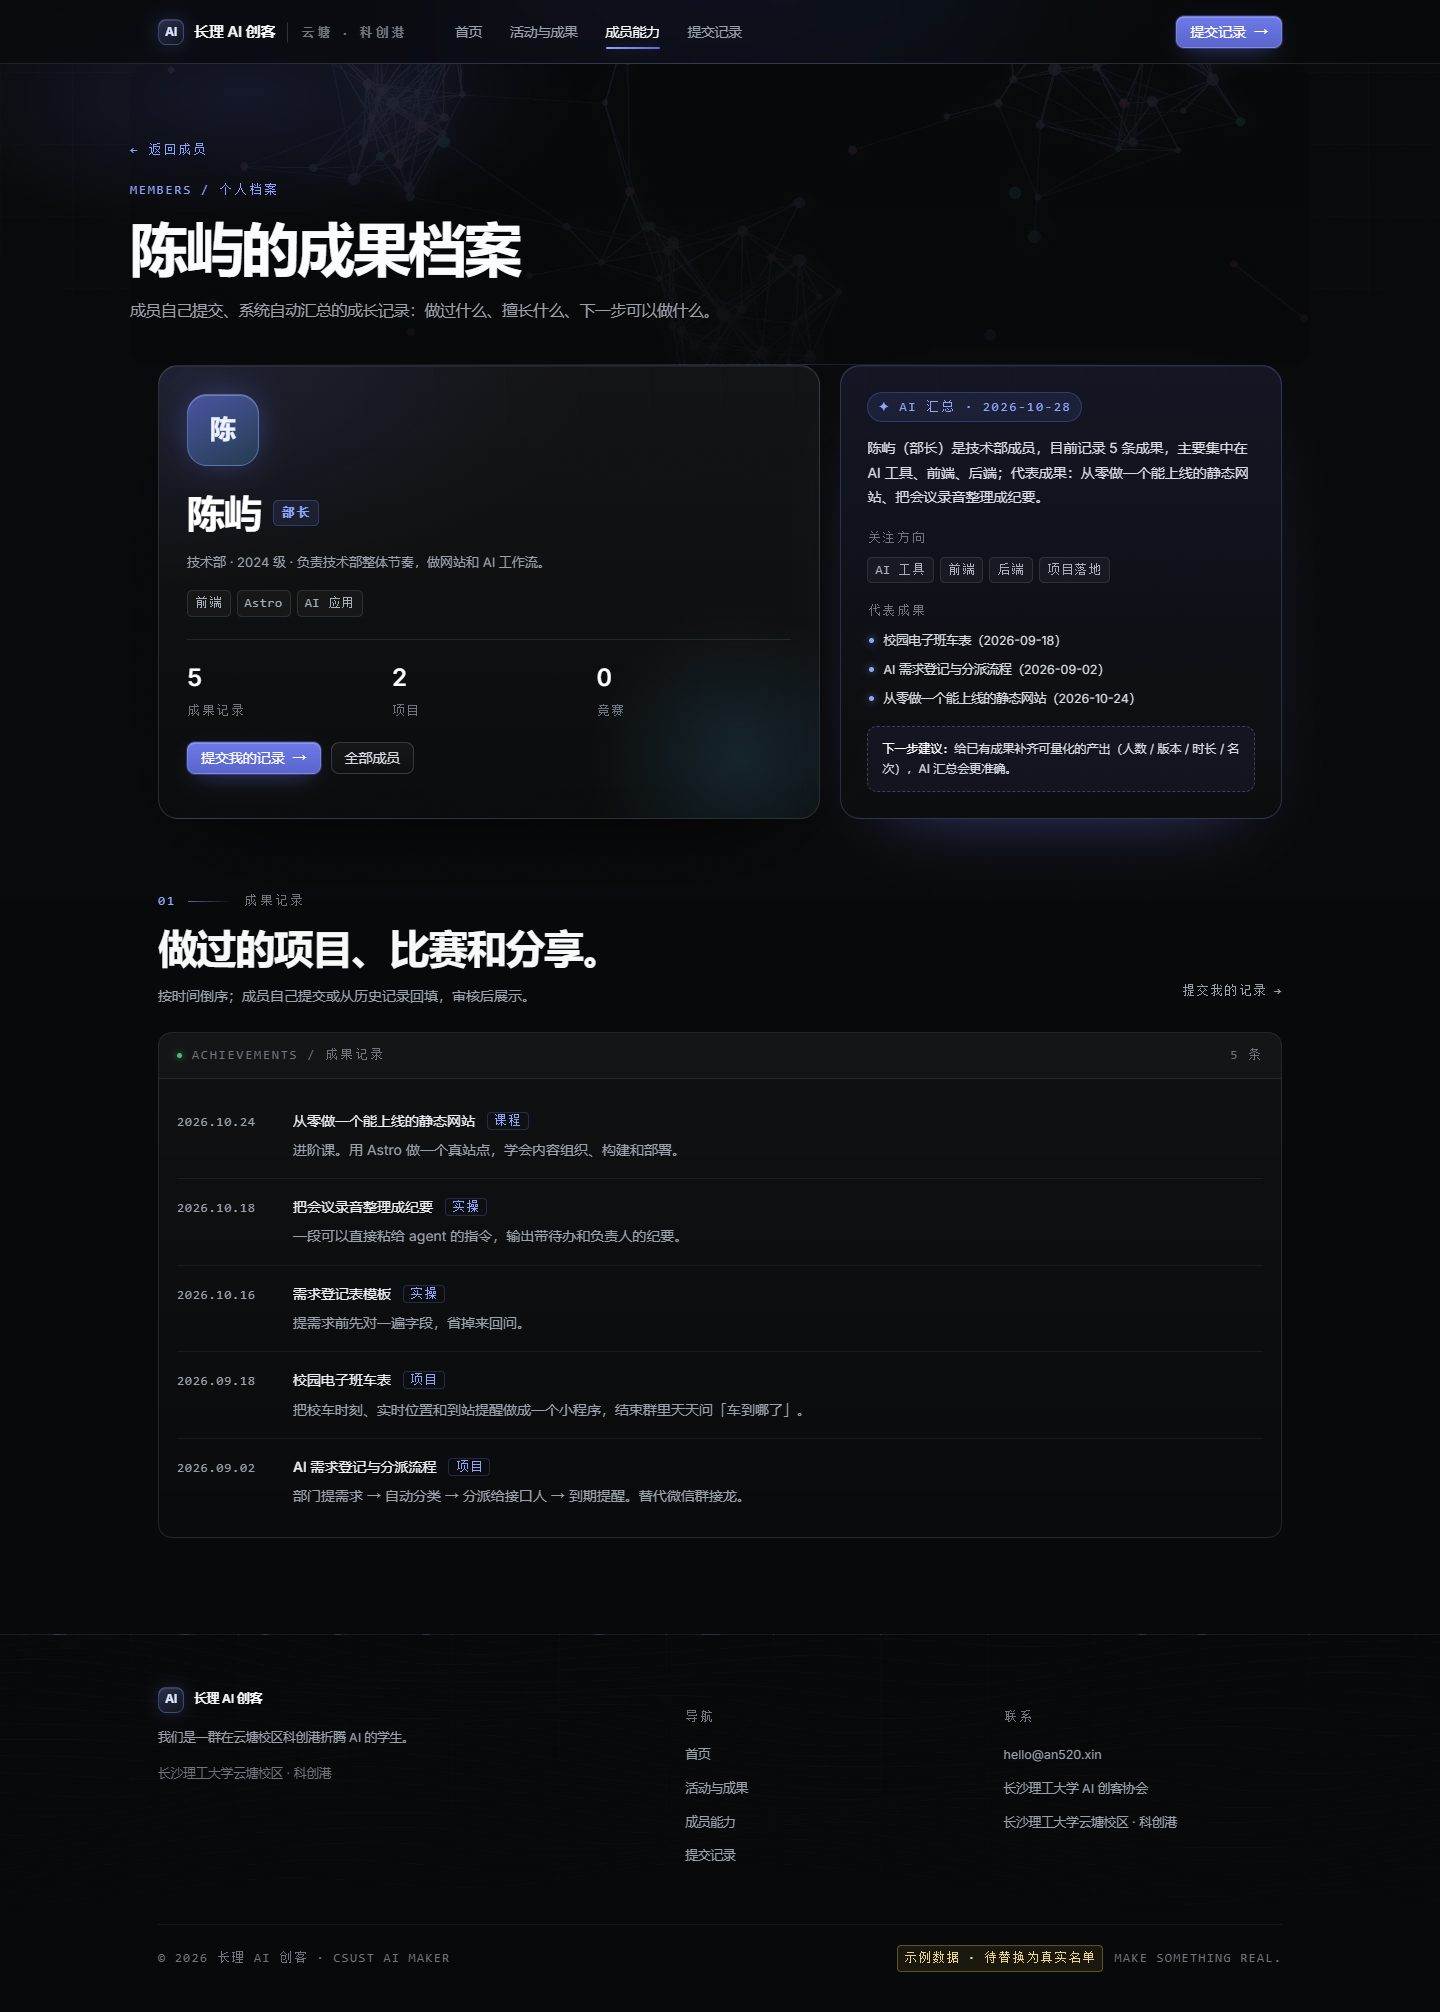
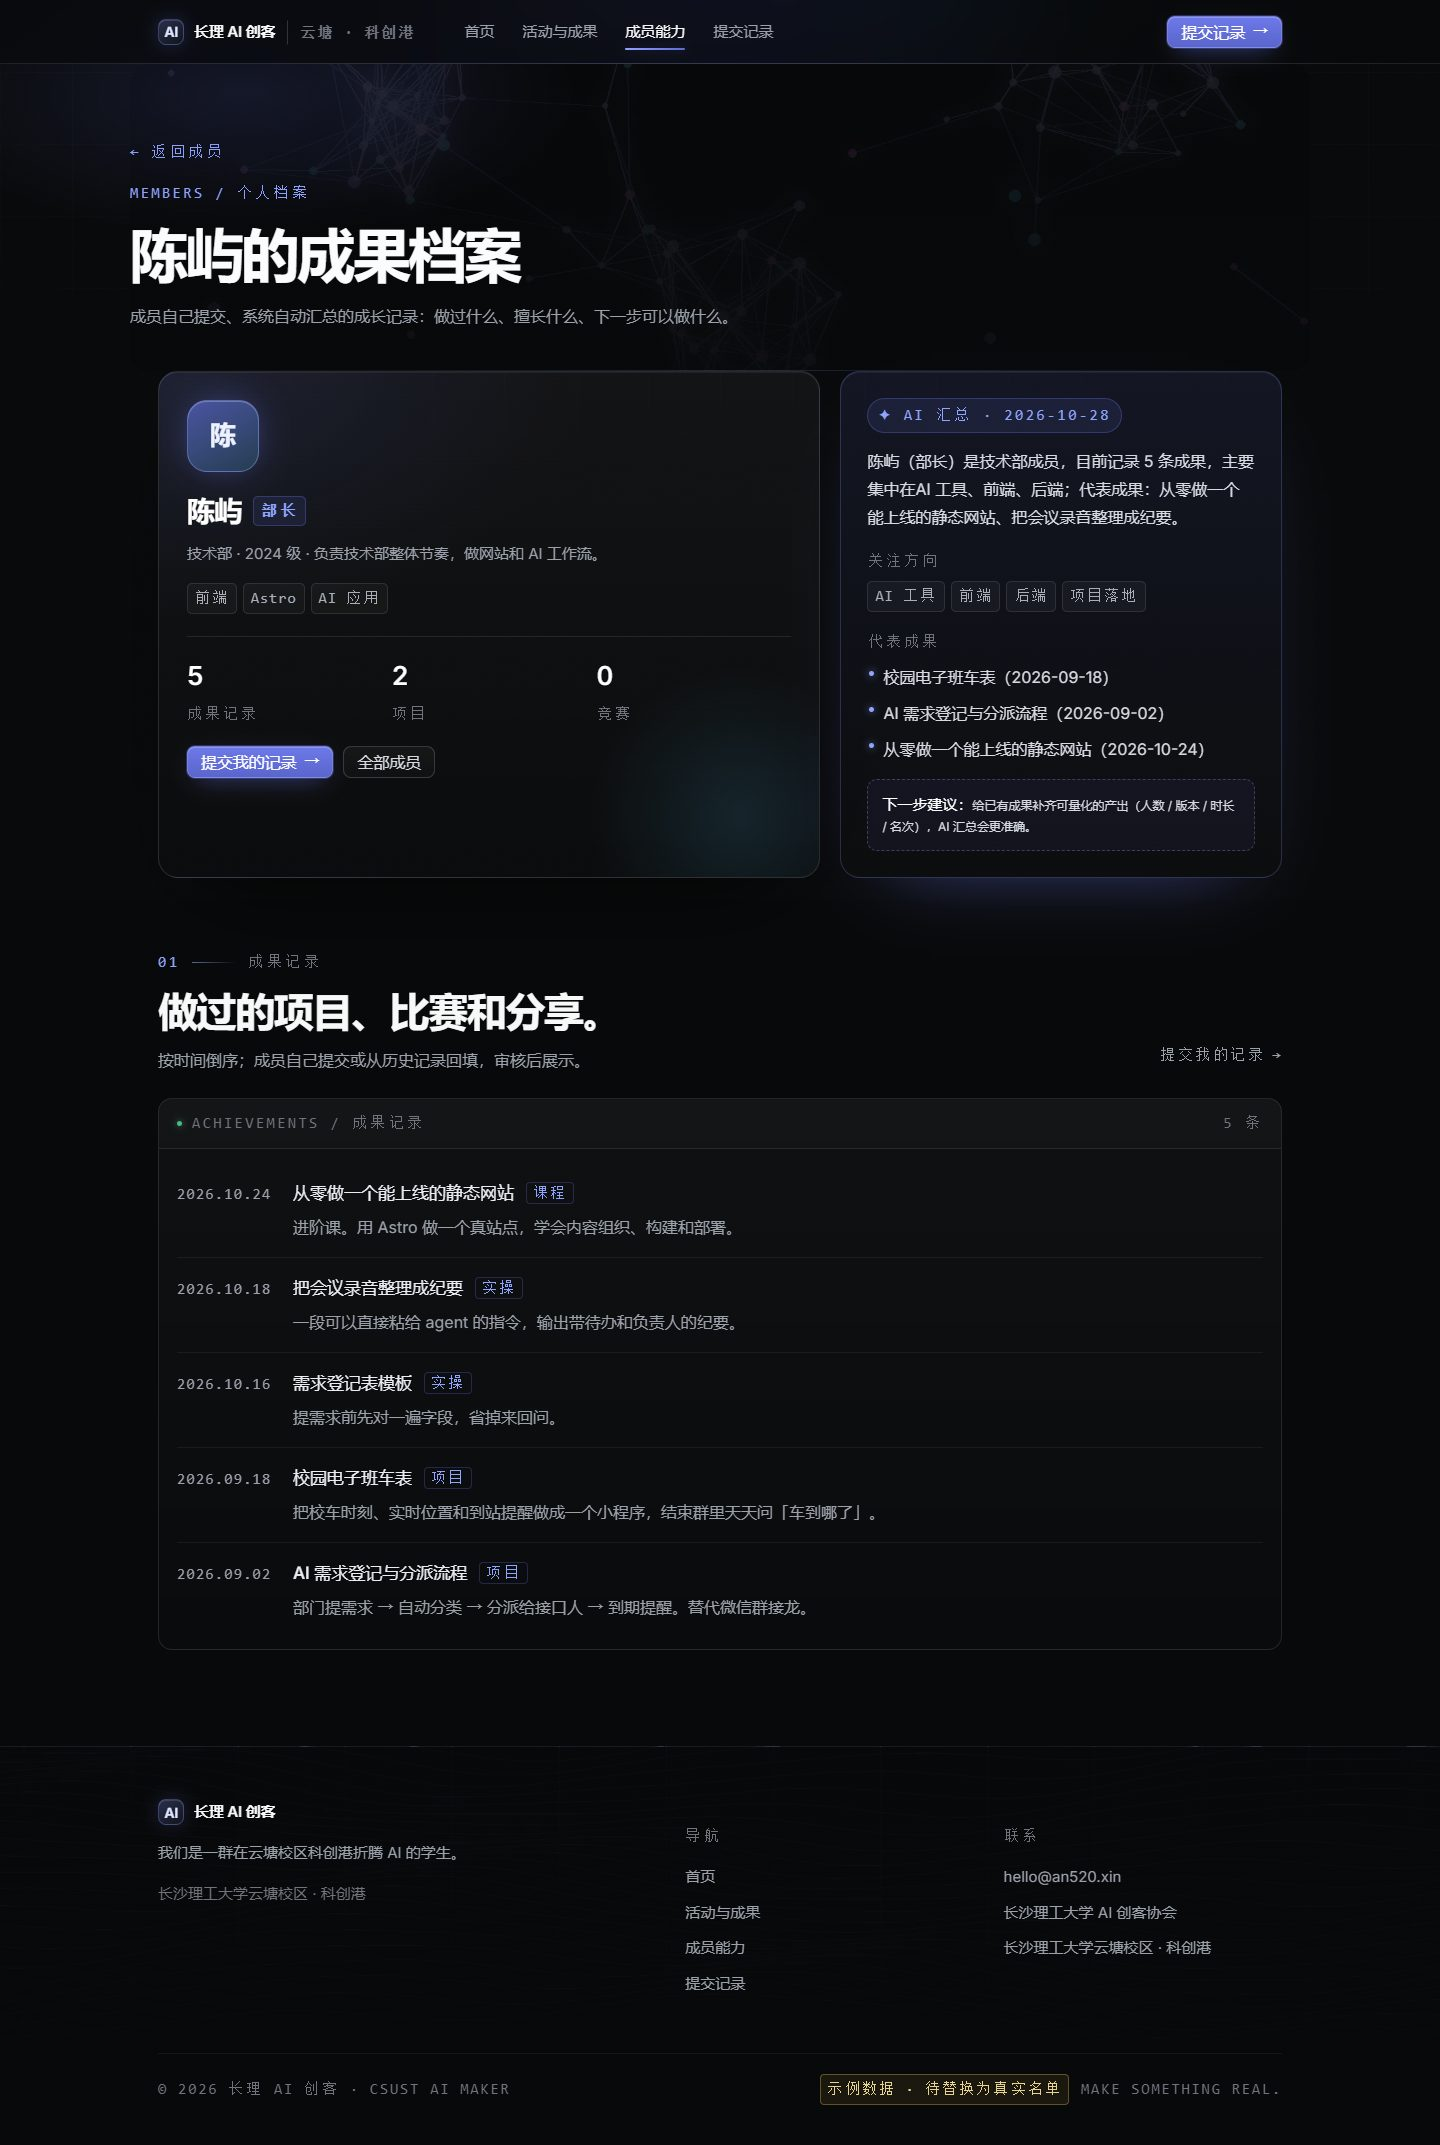
design: 字体整体放大（最小五号 14px）+ AI 装饰应用到更多区块
- 字号体系：正文 16px、描述 16px、标签/元信息 15px，最小不低于 14px；关于协会标签 15px / 值 17px；导航页脚 15px
- 审计：首页/活动与成果/成员/个人档案/提交页均无小于 14px 的文字
- AI 装饰扩展：关于协会区（轨道 + 波纹）、成员能力区（神经网络）、成员页头与档案区、活动成果页、投稿页表单（轨道）、页脚（波纹）
- 截图更新；AGENTS/文档同步新字号规范与装饰位置
- 测试 50、构建 19 页、烟雾通过；桌面/移动无横向溢出

diff --git a/src/styles/global.css b/src/styles/global.css
@@ -3371,3 +3371,220 @@ input, select, textarea, button { font-size: 15px; }
   .ach-stats { grid-template-columns: repeat(2, minmax(0, 1fr)) !important; }
   .ach-stat:nth-child(3) { grid-column: 1 / -1; border-left: 0; border-top: 1px solid var(--line); }
 }
+
+/* ============================================================
+   2026-10-28 v2：字体整体放大（最小五号 ≈14px）+ AI 装饰应用到区块
+   ============================================================ */
+
+/* ---------- 字号基准 ---------- */
+html { font-size: 16px; }
+body { font-size: 16px; }
+p, li, dd, dt { font-size: 15px !important; }
+a { font-size: inherit; }
+.tlinks a { font-size: 15px; }
+.btn, .btn-sm { font-size: 15px; }
+input, select, textarea, button, option { font-size: 15px !important; }
+.skip-link { font-size: 14px; }
+
+/* 描述层：15px */
+.sec-desc, .lead, .ach-desc, .activity-body p, .dept-duty, .archive-summary,
+.ai-summary, .tl-desc, .about-fact b, .about-fact a, .form-msg, .compliance p,
+.foot-lead, .archive-card .archive-summary, .ai-list li, .views-empty {
+  font-size: 15px !important;
+  line-height: 1.75;
+}
+
+/* 标签 / 元信息：统一 14px（五号） */
+.mono, .crumb, .sec-index, .sec-index b, .tag, .skill-chip, .ach-type, .ach-date,
+.ach-avatar, .ach-link, .ach-member a, .activity-kind, .activity-meta,
+.hero-photo-badge, .hero-photo-count, .data-badge, .foot-meta, .brand-sub,
+.brand-mark, .stat-k, .stat-label, .count, .hbar-label, .hbar-num, .archive-meta,
+.archive-stats span, .archive-stats b, .mech-k, .profile-role, .profile-meta,
+.tl-date, .tl-type, .tl-outcome, .tl-link, .ai-tag, .ai-sub, .ai-next b,
+.m-role, figcaption, .panel-head, .member-table th, .search-box input, .chip,
+.carousel-slide figcaption, .mini-type, .mini-date, .member-simple-dept,
+.sec-more, .tfoot h5, .tfoot a, .tfoot p, .field label, .field .hint, .hint,
+.compliance span, .ability-person span, .profile-stat span, .ar, .list-head,
+.list-head span, .tfoot-bottom, .tfoot-bottom span, .carousel-dots button,
+.ability-row .hbar-label, .dept-tags .tag, .archive-tags .tag {
+  font-size: 14px !important;
+}
+
+/* 卡片标题 / 正文标题略微放大 */
+.ach-title { font-size: 17px !important; }
+.activity-body b { font-size: 16px !important; }
+.mini-row b { font-size: 16px !important; }
+.member-simple-head b { font-size: 16px !important; }
+.archive-name { font-size: 16px !important; }
+.about-fact b, .about-fact a { font-size: 16px !important; }
+.about-fact .mono { font-size: 14px !important; }
+.field label { font-size: 14px !important; }
+.profile-name { font-size: 26px; }
+.profile-stat b { font-size: 24px; }
+.ability-panel h3 { font-size: 16px; }
+.dept-name { font-size: 16px; }
+.tl-body b { font-size: 16px; }
+
+/* 关于协会：标签（所在位置等）与值都放大，少一点小字 */
+.about-facts { gap: 14px; }
+.about-fact { padding: 20px 22px; gap: 8px; }
+
+/* ---------- AI 装饰应用到更多区块 ---------- */
+#about { position: relative; overflow: hidden; }
+#about::before {
+  content: "";
+  position: absolute;
+  right: -240px;
+  top: -160px;
+  width: 720px;
+  height: 720px;
+  background: url('/decor/orbit.webp') center / contain no-repeat;
+  opacity: 0.3;
+  mix-blend-mode: screen;
+  pointer-events: none;
+  z-index: 0;
+}
+#about::after {
+  content: "";
+  position: absolute;
+  left: 0;
+  right: 0;
+  bottom: 0;
+  height: 220px;
+  background: url('/decor/mesh.webp') center bottom / cover no-repeat;
+  opacity: 0.32;
+  mix-blend-mode: screen;
+  pointer-events: none;
+  mask-image: linear-gradient(180deg, transparent, #000 60%, transparent);
+  -webkit-mask-image: linear-gradient(180deg, transparent, #000 60%, transparent);
+}
+#about > .wrap { position: relative; z-index: 1; }
+
+#members { position: relative; overflow: hidden; }
+#members::before {
+  content: "";
+  position: absolute;
+  right: -120px;
+  top: 40px;
+  width: 520px;
+  height: 420px;
+  background: url('/decor/neural.webp') center / contain no-repeat;
+  opacity: 0.22;
+  mix-blend-mode: screen;
+  pointer-events: none;
+  z-index: 0;
+}
+#members > .wrap { position: relative; z-index: 1; }
+
+#results, #roster, #ability, #structure { position: relative; overflow: hidden; }
+#results::before,
+#roster::before {
+  content: "";
+  position: absolute;
+  right: -180px;
+  top: -60px;
+  width: 560px;
+  height: 560px;
+  background: url('/decor/orbit.webp') center / contain no-repeat;
+  opacity: 0.22;
+  mix-blend-mode: screen;
+  pointer-events: none;
+  z-index: 0;
+}
+#ability::before {
+  content: "";
+  position: absolute;
+  left: -140px;
+  top: -80px;
+  width: 480px;
+  height: 380px;
+  background: url('/decor/neural.webp') center / contain no-repeat;
+  opacity: 0.2;
+  mix-blend-mode: screen;
+  pointer-events: none;
+  z-index: 0;
+}
+#results > .wrap, #roster > .wrap, #ability > .wrap, #structure > .wrap {
+  position: relative;
+  z-index: 1;
+}
+
+/* 投稿页：表单卡右侧轨道装饰 */
+.form-shell { position: relative; }
+.form-shell::before {
+  content: "";
+  position: absolute;
+  right: -200px;
+  top: 60px;
+  width: 520px;
+  height: 520px;
+  background: url('/decor/orbit.webp') center / contain no-repeat;
+  opacity: 0.22;
+  mix-blend-mode: screen;
+  pointer-events: none;
+  z-index: 0;
+}
+
+/* 小屏收敛 */
+@media (max-width: 860px) {
+  #about::before, #about::after, #members::before,
+  #results::before, #roster::before, #ability::before,
+  .form-shell::before { display: none; }
+}
+@media (prefers-reduced-motion: reduce) {
+  #about::before { animation: none; }
+}
+
+/* 字体下限补漏 2：剩下的 12.5/13px 全部提到 14px */
+.tfoot li a, .tfoot li span { font-size: 14px !important; }
+.eyebrow-pill, .eyebrow-pill span { font-size: 14px !important; }
+.page-header .crumb, .page-header a.crumb, span.crumb, a.crumb { font-size: 14px !important; }
+.chip .count, .filter-bar .count { font-size: 14px !important; }
+.ach-empty { font-size: 14px !important; }
+.ability-person b { font-size: 14px !important; }
+.check-field, .check-field span { font-size: 14px !important; }
+.carousel-slide figcaption { font-size: 14px !important; }
+
+/* 2026-10-28 v3：再放大一档（标签 15px / 正文 16px / 关于事实 17px） */
+body { font-size: 16px; }
+p, li, dd, dt, figcaption { font-size: 16px !important; }
+.sec-desc, .lead, .ach-desc, .activity-body p, .dept-duty, .archive-summary,
+.ai-summary, .tl-desc, .form-msg, .compliance p, .foot-lead, .ai-list li,
+.views-empty, .about-fact b, .about-fact a {
+  font-size: 16px !important;
+  line-height: 1.75;
+}
+.mono, .crumb, .sec-index, .sec-index b, .tag, .skill-chip, .ach-type, .ach-date,
+.ach-avatar, .ach-link, .ach-member a, .activity-kind, .activity-meta,
+.hero-photo-badge, .hero-photo-count, .data-badge, .foot-meta, .brand-sub,
+.brand-mark, .stat-k, .stat-label, .count, .hbar-label, .hbar-num, .archive-meta,
+.archive-stats span, .archive-stats b, .mech-k, .profile-role, .profile-meta,
+.tl-date, .tl-type, .tl-outcome, .tl-link, .ai-tag, .ai-sub, .ai-next b,
+.m-role, .panel-head, .member-table th, .search-box input, .chip,
+.carousel-slide figcaption, .mini-type, .mini-date, .member-simple-dept,
+.sec-more, .tfoot h5, .tfoot a, .tfoot p, .field label, .field .hint, .hint,
+.compliance span, .ability-person span, .profile-stat span, .ar, .list-head,
+.list-head span, .tfoot-bottom, .tfoot-bottom span, .ability-row .hbar-label,
+.dept-tags .tag, .archive-tags .tag, .ability-person b, .check-field,
+.check-field span, .eyebrow-pill, .eyebrow-pill span, .nav-search, .skip-link,
+input, select, textarea, button, option {
+  font-size: 15px !important;
+}
+.btn, .btn-sm { font-size: 16px; }
+.ach-title, .archive-name, .member-simple-head b, .activity-body b,
+.mini-row b, .dept-name, .tl-body b, .ability-panel h3 { font-size: 17px !important; }
+.about-fact b, .about-fact a { font-size: 17px !important; }
+.about-fact .mono { font-size: 15px !important; }
+.profile-name { font-size: 28px; }
+.profile-stat b { font-size: 26px; }
+
+/* 2026-10-28 v3.1：导航/页脚/标签再放一档（高于五号） */
+.tnav .tlinks a { font-size: 15px !important; }
+.tfoot li a, .tfoot li span, .tfoot a, .tfoot p { font-size: 15px !important; }
+.page-header .crumb, .page-header a.crumb, span.crumb, a.crumb { font-size: 15px !important; }
+.chip .count, .filter-bar .count { font-size: 15px !important; }
+.archive-avatar { font-size: 15px !important; }
+.about-fact .mono { font-size: 15px !important; }
+.ach-empty { font-size: 15px !important; }
+.brand-sub, .brand-mark { font-size: 14px !important; }
+.skill-chip, .tag { font-size: 15px !important; }

diff --git a/AGENTS.md b/AGENTS.md
@@ -12,6 +12,7 @@
   `items.json` / `flags.json` / `tools.json` 是历史数据，仅作回填与后台兼容保留。
 - **成员名单在 `src/data/members.ts`**，协会信息/导航/部门职责/运行机制/首屏照片在 `src/data/site.ts`；现场照片在 `public/photos/`（压缩后的 jpg，页面懒加载）。
 - **AI 感装饰图在 `public/decor/`**：程序化生成（`scripts/generate-decor.py`），只做低对比点缀，必须 `pointer-events:none` 且尊重 reduced-motion，不能盖过正文。
+  已用于：首页首屏（轨道/极光/波纹）、全部页头与 CTA（神经网络）、首页关于协会与成员能力区（轨道/神经）、活动成果页与投稿页（轨道）、页脚（波纹）。
 - **AI 能力分析自动化**：`src/data/analyze.ts`（规则分析 + 可选 LLM）；`pnpm analyze` 重算档案；
   后台审核发布投稿后自动重算；接口 `POST /api/analyze`。服务器配 `AI_API_KEY` / `AI_BASE_URL` / `AI_MODEL` 后自动升级 LLM 分析。
 - **发布状态在 `src/data/publish-state.json`**（后台写入），审核记录在 `src/data/review-log.json`。
@@ -29,7 +30,7 @@
 - 字号/圆角用 token（`--text-*`、`--radius-*`），不写死；正文行高 1.7~1.85。
 - 动效：入场级联、滚动入场、数字滚动、悬停微交互；必须尊重 `prefers-reduced-motion`，且无 JS 时内容完整可见。
 - 简洁优先：4 个导航入口；不做全局搜索（页面太少，搜索是纯负担）。首页不堆解释文字、不展示成员人数（人数会变）；首屏用科创港照片轮播。
-- 字体下限：正文 15px、描述 14px、标签/元信息 12.5px，任何页面不出现小于 12px 的文字。
+- 字体下限（2026-10-28 再放大）：正文 16px、描述 16px、标签/元信息 15px，**任何页面不出现小于 14px（五号）的文字**；导航/页脚 15px。
 - 收录：`site.publicIndex` 默认 `false`；个人档案页始终 noindex；换真实数据后可开启全站收录。
 
 ## Agent skills

diff --git a/docs/2026-10-28-AI感装饰.md b/docs/2026-10-28-AI感装饰.md
@@ -7,9 +7,9 @@
 
 | 文件 | 内容 | 用在哪 |
 |---|---|---|
-| `orbit.webp` | 发光轨道环 + 粒子 + 中心十字（1800×1800，74KB） | 首页首屏背景（右下角，缓慢旋转） |
-| `mesh.webp` | 线框波纹网格（2200×846，93KB） | 首页首屏底部渐隐、全站页脚 |
-| `neural.webp` | 神经网络节点连线（1700×1000，97KB） | 各页面页头、CTA 区（暗色遮罩下低对比） |
+| `orbit.webp` | 发光轨道环 + 粒子 + 中心十字（1800×1800，74KB） | 首页首屏、关于协会区、成员能力区、成员页头/档案区、活动成果页、投稿页 |
+| `mesh.webp` | 线框波纹网格（2200×846，93KB） | 首页首屏底部渐隐、关于协会区、全站页脚 |
+| `neural.webp` | 神经网络节点连线（1700×1000，97KB） | 全部页头、首页成员能力区、CTA 区（暗色遮罩下低对比） |
 | `aurora.webp` | 极光色块柔光（1800×1064，17KB） | 首页首屏文案后的柔光 |
 
 生成脚本：`scripts/generate-decor.py`（numpy + Pillow，纯本地可复现）。
@@ -31,3 +31,7 @@
 2. 替换 CSS 里对应 `url('/decor/xxx.webp')`；
 3. 保持低透明度与暗色遮罩，别盖过正文；
 4. 画面里不要出现可识别的真人、品牌 logo、文字（避免版权与隐私问题）。
+
+## 四、字体同步放大（2026-10-28 v3）
+
+配合装饰层，全站字体再放一档：正文 16px、描述 16px、标签/元信息 15px，最小不低于 14px（五号）。审计覆盖 5 个页面，无小于 14px 的文字。
